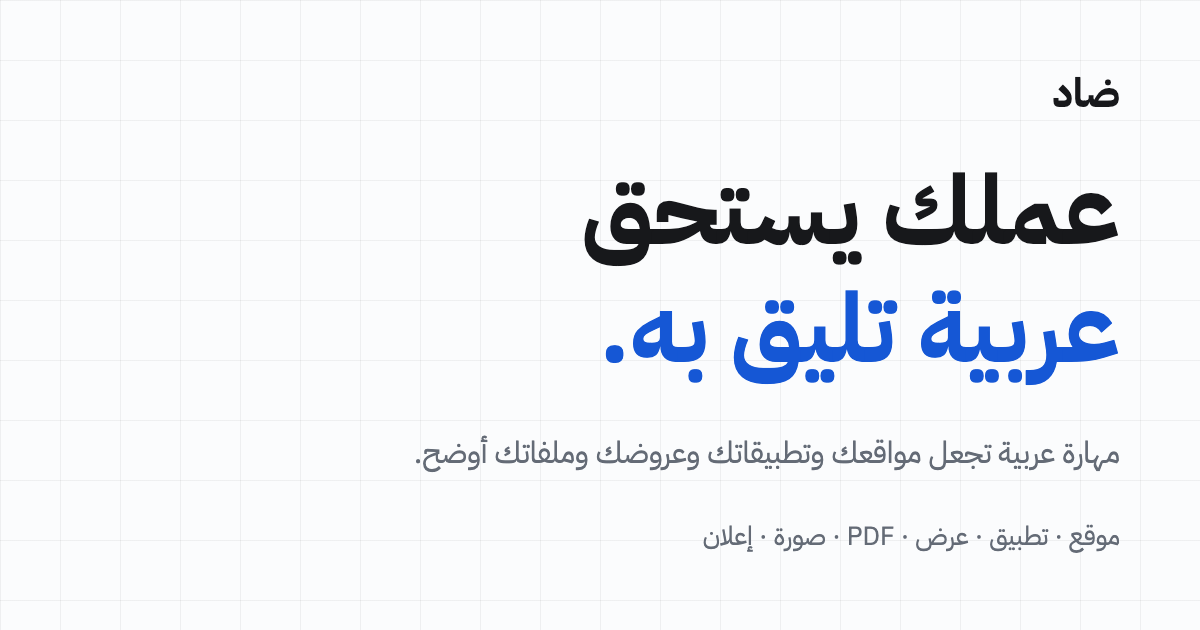
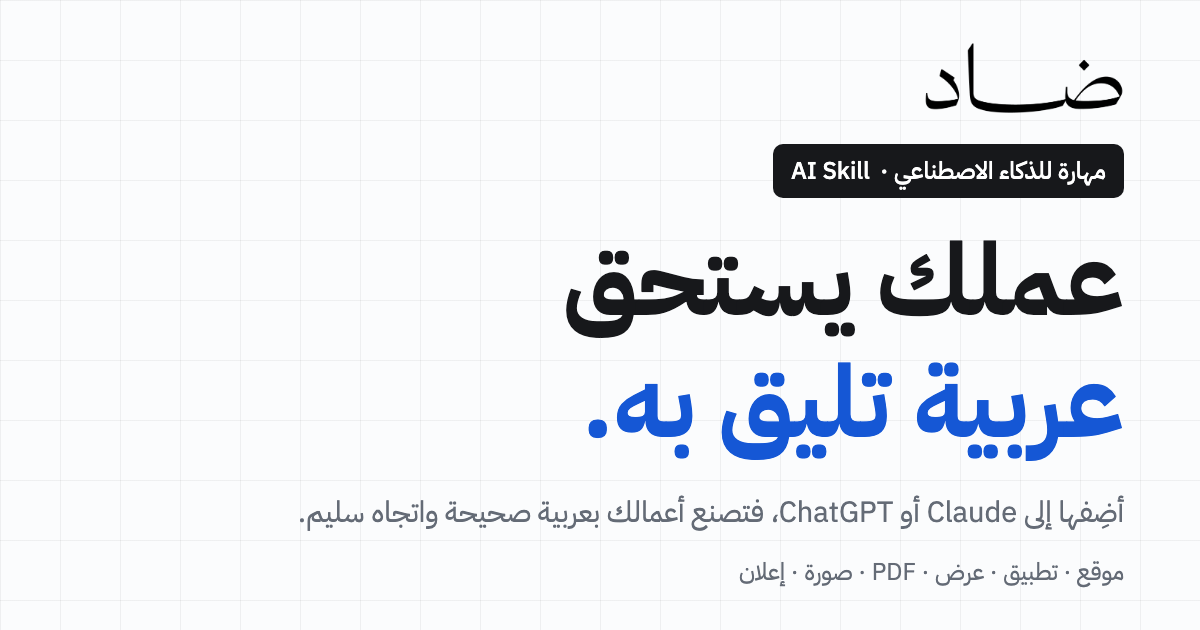
Put the mark on the share card and say what Dhad is
The card carried the wordmark as type and never said what the thing is. It
now leads with the project's own mark and names the category outright, since
a link shared into a feed has one moment to answer "what is this" and
"where does it go": a skill added to Claude or ChatGPT.

Keep blue for the headline alone, so the category badge reads as a label
rather than competing with the accent, and carry the same sentence into the
Open Graph and Twitter descriptions that sit beside the image.

Changed region(s): [[0.3392, 0.2111, 0.9558, 0.754], [0.2467, 0.7841, 0.9558, 0.9349], [0.7708, 0.0603, 0.9558, 0.181]]

diff --git a/scripts/og-card.html b/scripts/og-card.html
@@ -13,6 +13,11 @@
     src: url("../src/dhad/assets/starter/fonts/IBMPlexSansArabic-Regular.woff2") format("woff2");
     font-weight: 400;
   }
+  @font-face {
+    font-family: "Plex Arabic";
+    src: url("../src/dhad/assets/starter/fonts/IBMPlexSansArabic-Medium.woff2") format("woff2");
+    font-weight: 500;
+  }
 
   :root {
     --paper: #ffffff;
@@ -30,8 +35,7 @@
     display: flex;
     flex-direction: column;
     justify-content: center;
-    gap: 40px;
-    padding: 0 80px;
+    padding: 0 76px;
     background-color: #fbfcfd;
     background-image:
       linear-gradient(var(--grid) 1px, transparent 1px),
@@ -42,13 +46,26 @@
   }
 
   .mark {
-    font-size: 40px;
-    font-weight: 700;
-    line-height: 1;
+    inline-size: 200px;
+    margin-block-end: 28px;
+  }
+
+  .eyebrow {
+    display: inline-flex;
+    align-items: center;
+    gap: 10px;
+    align-self: flex-start;
+    margin-block-end: 22px;
+    padding: 9px 18px;
+    border-radius: 10px;
+    background: var(--ink);
+    color: #fff;
+    font-size: 24px;
+    font-weight: 500;
   }
 
   h1 {
-    font-size: 96px;
+    font-size: 100px;
     font-weight: 700;
     line-height: 1.22;
   }
@@ -56,26 +73,29 @@
   h1 span { display: block; }
   h1 span:last-child { color: var(--action); }
 
-  p {
-    max-inline-size: 820px;
+  .lead {
+    max-inline-size: 1000px;
+    margin-block-start: 26px;
     color: var(--muted);
-    font-size: 30px;
-    text-wrap: balance;
+    font-size: 29px;
     font-weight: 400;
     line-height: 1.6;
+    text-wrap: balance;
   }
 
   .kinds {
+    margin-block-start: 18px;
     color: var(--muted);
-    font-size: 26px;
+    font-size: 24px;
     font-weight: 400;
   }
 </style>
 </head>
 <body>
-  <div class="mark">ضاد</div>
+  <img class="mark" src="../showcase/public/brand-mark.png" alt="ضاد">
+  <p class="eyebrow">مهارة للذكاء الاصطناعي · <bdi dir="ltr">AI Skill</bdi></p>
   <h1><span>عملك يستحق</span><span>عربية تليق به.</span></h1>
-  <p>مهارة عربية تجعل مواقعك وتطبيقاتك وعروضك وملفاتك أوضح.</p>
-  <div class="kinds">موقع · تطبيق · عرض · PDF · صورة · إعلان</div>
+  <p class="lead">أضِفها إلى <bdi dir="ltr">Claude</bdi> أو <bdi dir="ltr">ChatGPT</bdi>، فتصنع أعمالك بعربية صحيحة واتجاه سليم.</p>
+  <p class="kinds">موقع · تطبيق · عرض · PDF · صورة · إعلان</p>
 </body>
 </html>

diff --git a/showcase/app/layout.tsx b/showcase/app/layout.tsx
@@ -17,13 +17,13 @@ export const metadata: Metadata = {
     url: '/',
     siteName: 'Dhad',
     title: 'Dhad',
-    description: 'مواقع وملفات وصور أوضح، مع عربية مريحة واتجاه صحيح.',
+    description: 'مهارة تضيفها إلى Claude أو ChatGPT، فتصنع أعمالك بعربية صحيحة واتجاه سليم.',
     images: [{ url: '/og.png', width: 1200, height: 630, alt: 'ضاد، عمل أوضح وعربية أفضل' }],
   },
   twitter: {
     card: 'summary_large_image',
     title: 'Dhad',
-    description: 'مواقع وملفات وصور أوضح، مع عربية مريحة واتجاه صحيح.',
+    description: 'مهارة تضيفها إلى Claude أو ChatGPT، فتصنع أعمالك بعربية صحيحة واتجاه سليم.',
     creator: '@iiAMMAR11',
     images: ['/og.png'],
   },
